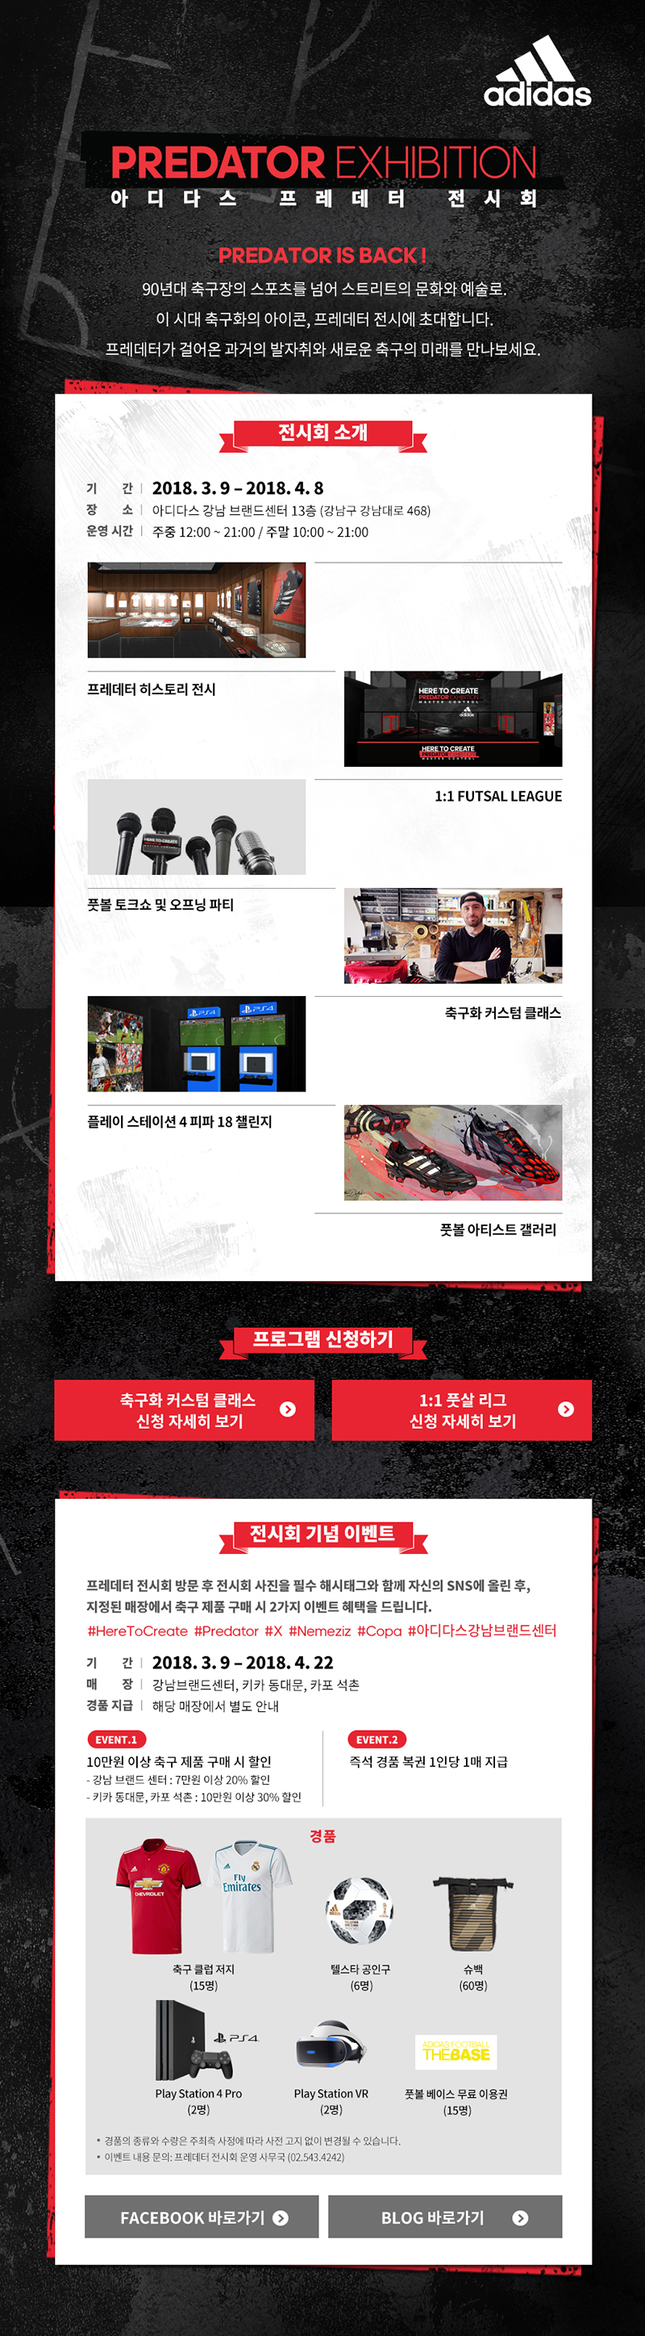
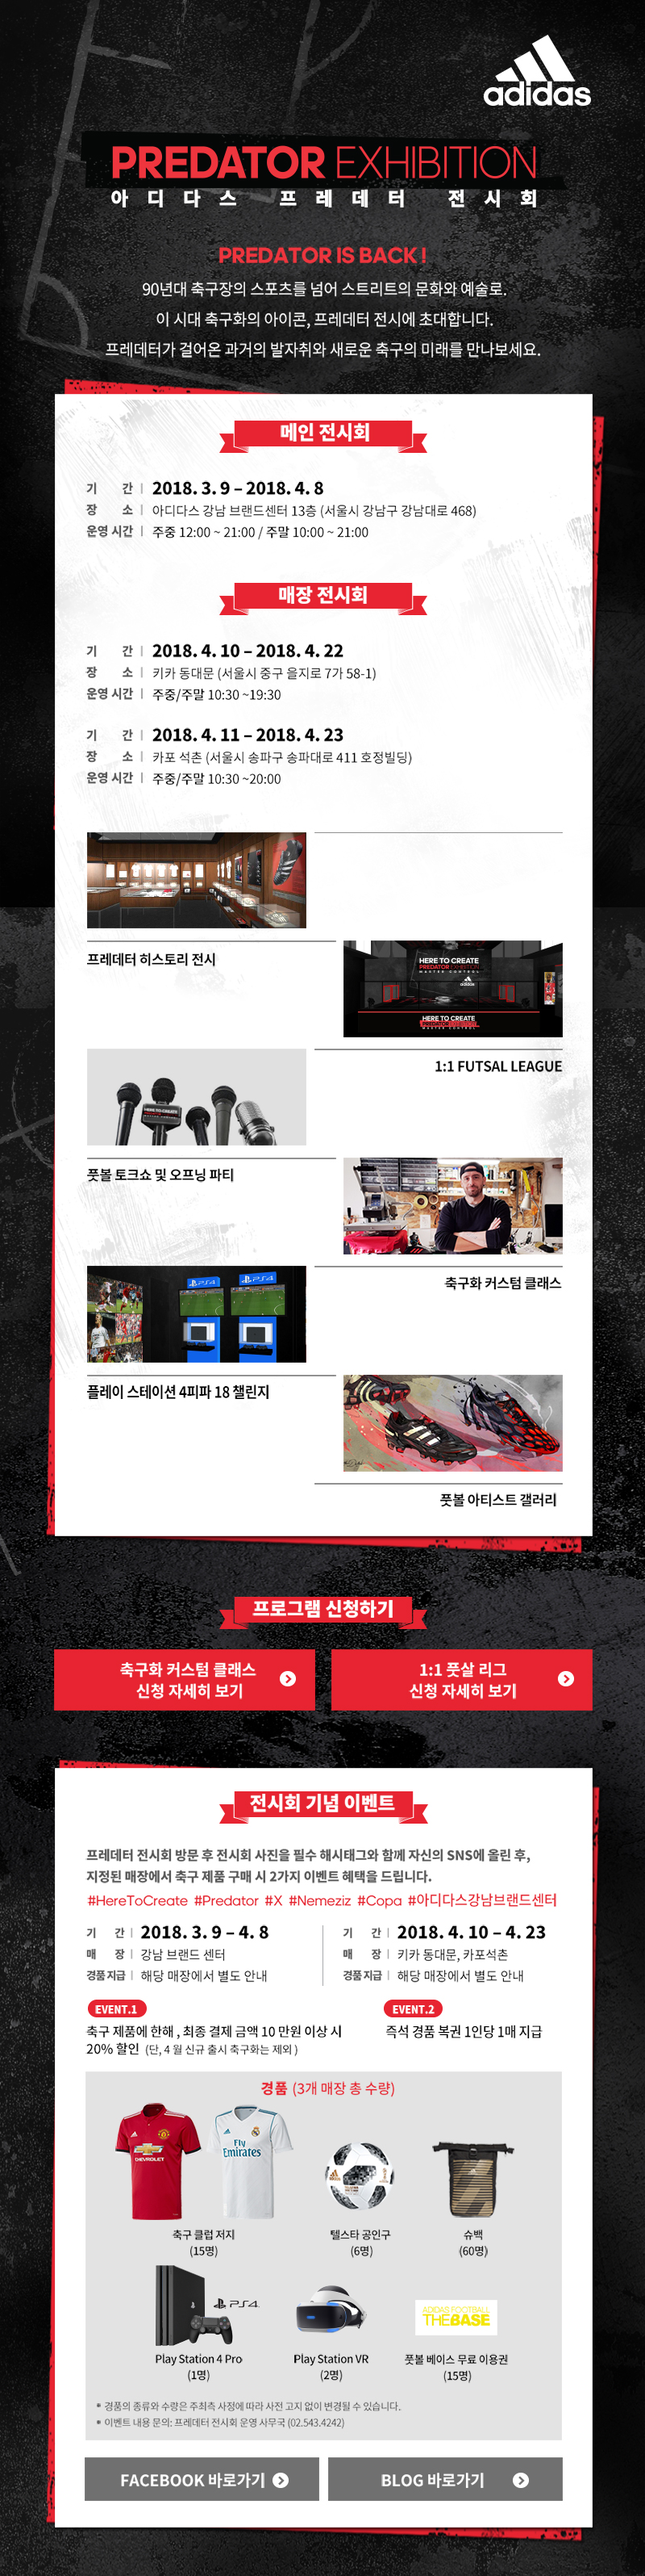
축구 캠페인 수정

diff --git a/app/html/adidas/campaign/4185/index.html b/app/html/adidas/campaign/4185/index.html
@@ -444,16 +444,16 @@
 
 				</style>
 
-                <!-- 180305 -->
+                <!-- 180307 -->
 				<div style="position:relative" class="adiclub_event">
 					<img src="http://imagem.adidas.co.kr/upload/campaign/adidas/4185/img01.jpg" alt="" style="width:100%;">
-					<a href="#" style="display: inline-block; position: absolute; top: 59%; left: 8.2%; width: 40.5%; height: 2.7%; text-indent: -5000px;">축구화 커스텀 클래스 신청 자세히 보기</a>
-					<a href="#" style="display: inline-block; position: absolute; top: 59%; left: 51.2%; width: 40.5%; height: 2.7%; text-indent: -5000px;">1:1 풋살 리그 신청 자세히 보기</a>
+					<a href="#" style="display: inline-block; position: absolute; top: 64%; left: 8.2%; width: 40.5%; height: 2.5%; text-indent: -5000px;">축구화 커스텀 클래스 신청 자세히 보기</a>
+					<a href="#" style="display: inline-block; position: absolute; top: 64%; left: 51.2%; width: 40.5%; height: 2.5%; text-indent: -5000px;">1:1 풋살 리그 신청 자세히 보기</a>
 
-                    <a href="https://www.facebook.com/pg/adidasfootballkr/events/" style="display:inline-block;position: absolute;top:93.9%;left:13%;width:36.5%;height:1.9%;text-indent:-5000px;">FACEBOOK 바로가기</a>
-					<a href="http://blog.naver.com/adidas-korea/221220002732" style="display:inline-block;position: absolute;top:93.9%;left:51%;width:36.5%;height:1.9%;text-indent:-5000px;">BLOG 바로가기</a>
+                    <a href="https://www.facebook.com/pg/adidasfootballkr/events/" style="display:inline-block;position: absolute;top:95.2%;left:13%;width:36.5%;height:1.9%;text-indent:-5000px;">FACEBOOK 바로가기</a>
+					<a href="http://blog.naver.com/adidas-korea/221220002732" style="display:inline-block;position: absolute;top:95.2%;left:51%;width:36.5%;height:1.9%;text-indent:-5000px;">BLOG 바로가기</a>
 				</div>
-				<!-- 180305 끝 -->
+				<!-- 180307 끝 -->
 
             </div>
 			<!-- //promo_view -->
